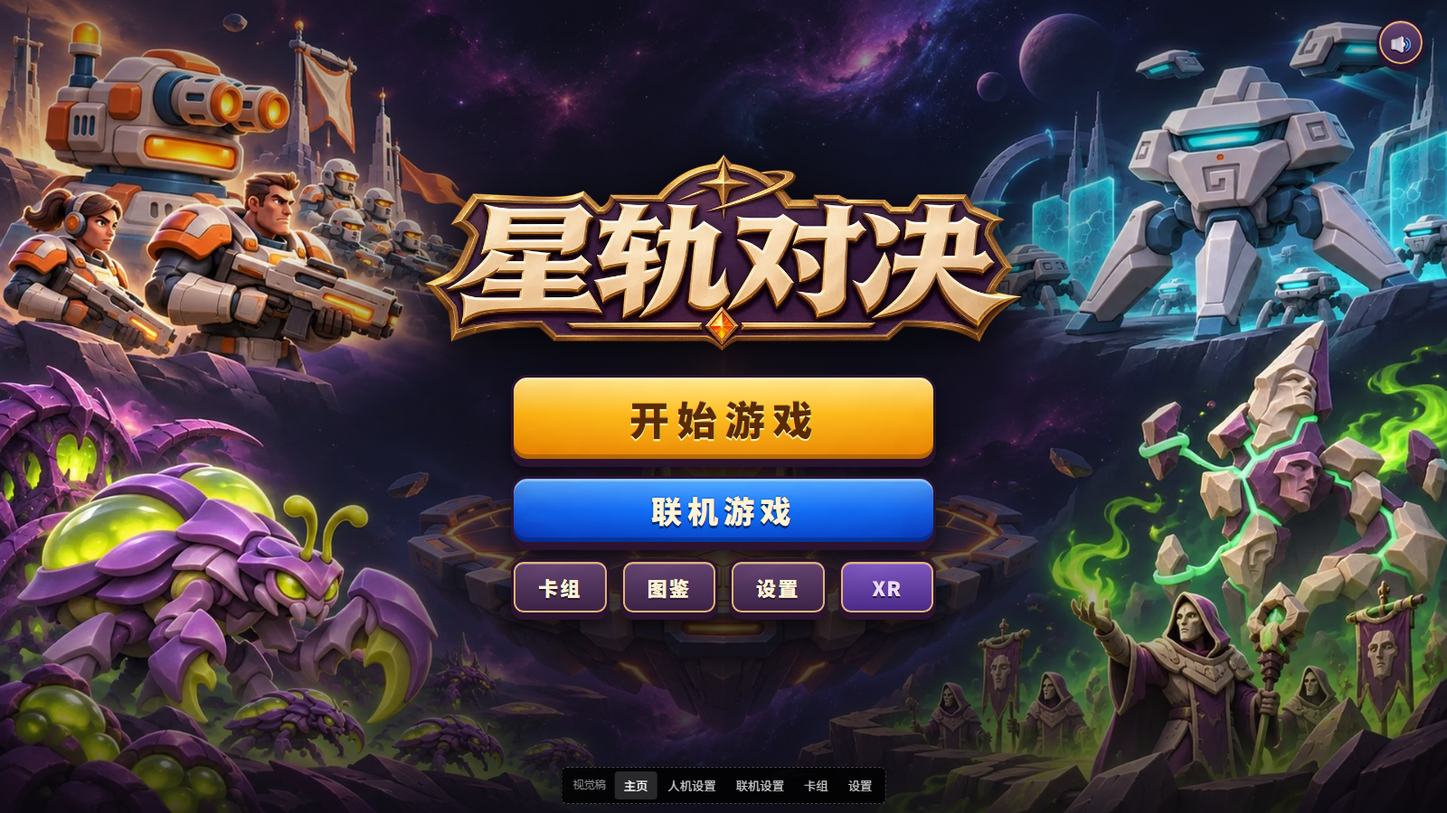
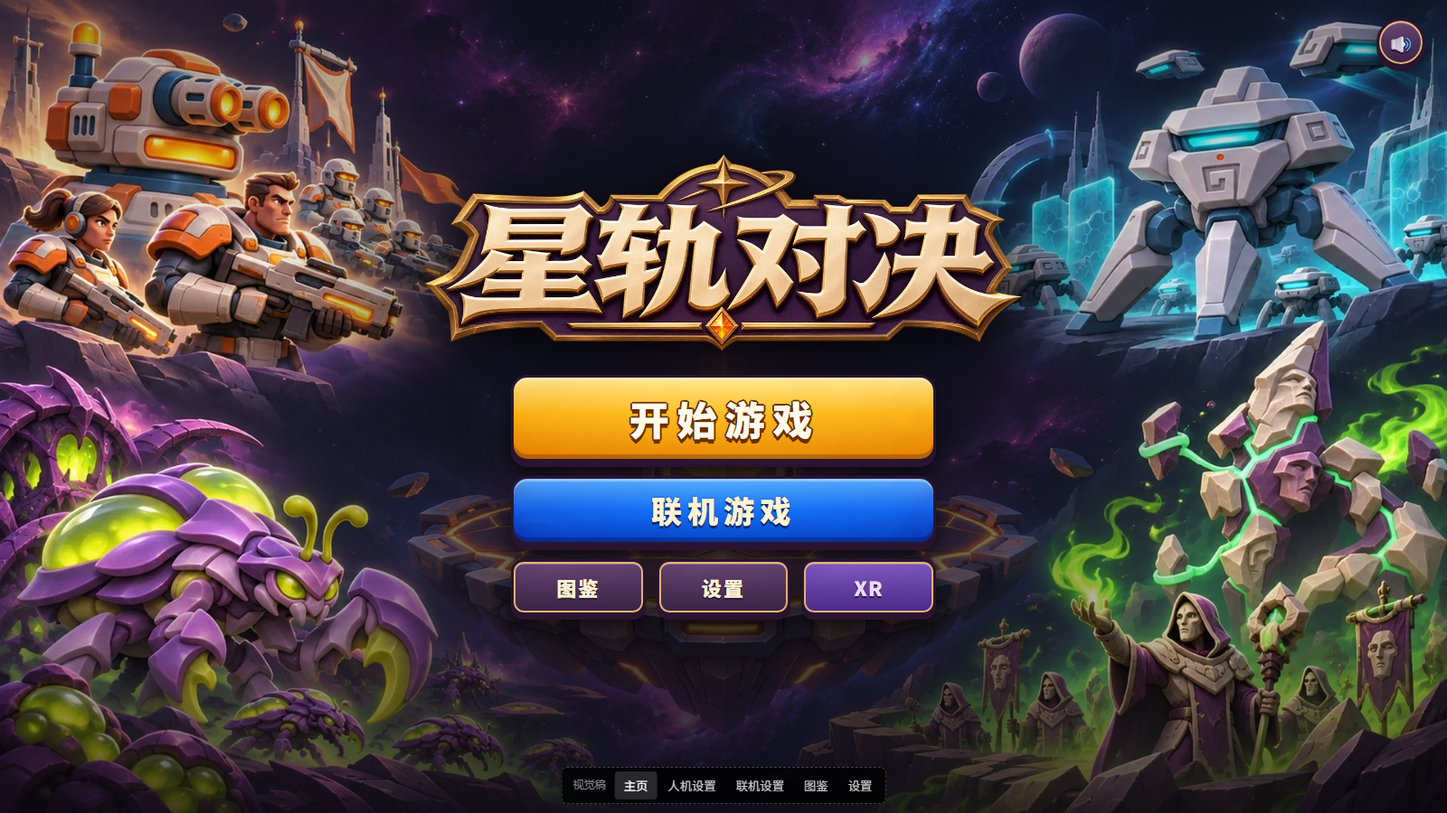
视觉稿 v0.5:卡组并入图鉴(阵营切换+卡牌网格+详情+出战卡组8格);金底文字改奶白粗描边提高对比;主页小按钮改为 图鉴/设置/XR

Changed region(s): [[0.375, 0.6844, 0.625, 0.7778], [0.4375, 0.4667, 0.5625, 0.56]]

diff --git a/mockup/index.html b/mockup/index.html
@@ -18,7 +18,9 @@
   --f-display: 'Noto Sans SC', 'Microsoft YaHei', sans-serif;   /* 全站展示字 = 粗黑体,与字标同一类厚重字形 */
   --f-body: 'Microsoft YaHei', 'PingFang SC', system-ui, sans-serif;
   --f-game: 'Noto Sans SC', 'Microsoft YaHei', sans-serif;   /* 主页按钮:粗黑体,呼应字标的厚重卡通字形 */
-  --plum-line: #2b1430;   /* 按钮外描边 / 立体底边,取自字标底板 */
+  --plum-line: #2b1430;
+  --gold-ink: #fffbea;     /* 金底文字:奶白 */
+  --gold-stroke: #6b2e00;  /* 金底文字描边 / 下沿:深棕 */   /* 按钮外描边 / 立体底边,取自字标底板 */
   --t-display: 72px; --t-h1: 44px; --t-h2: 28px; --t-h3: 20px; --t-body: 16px; --t-small: 14px; --t-caption: 12px; --t-over: 13px;
   --ease: cubic-bezier(.2,.7,.2,1);
   /* 金色角饰:L 形金线 + 菱形,用作框的四角 */
@@ -92,15 +94,15 @@ body {
 .g-btn:active { transform: translateY(4px); box-shadow: inset 0 3px 0 #ffffff40, inset 0 -3px 0 #00000038, 0 2px 0 var(--plum-line), 0 6px 12px #000a; }
 .g-btn:focus-visible { outline: 3px solid var(--focus); outline-offset: 4px; }
 /* 主:金色珐琅,深棕刻字 */
-.g-gold { height: 96px; font-size: 44px; letter-spacing: .2em; padding-left: .2em; color: #5a2a06;
+.g-gold { height: 96px; font-size: 44px; letter-spacing: .2em; padding-left: .2em; color: var(--gold-ink);
   background: linear-gradient(180deg, #fff1a8cc, #ffc21a99 45%, #e07a0099), url(../assets/ui/materials/gold-enamel.webp) center / cover;
-  text-shadow: 0 2px 0 #fff0b3, 0 -1px 0 #a04e0080; }
+  text-shadow: 2px 0 0 var(--gold-stroke), -2px 0 0 var(--gold-stroke), 0 2px 0 var(--gold-stroke), 0 -2px 0 var(--gold-stroke), 1.5px 1.5px 0 var(--gold-stroke), -1.5px 1.5px 0 var(--gold-stroke), 1.5px -1.5px 0 var(--gold-stroke), -1.5px -1.5px 0 var(--gold-stroke), 0 5px 0 var(--gold-stroke); }
 /* 次:蓝色珐琅,白字深蓝描边 */
 .g-blue { height: 76px; font-size: 34px; letter-spacing: .18em; padding-left: .18em;
   background: linear-gradient(180deg, #8fd0ff99, #2f86ff66 50%, #0b3fb899), url(../assets/ui/materials/blue-enamel.webp) center / cover;
   text-shadow: 0 3px 0 #0b2a6b, 0 0 2px #0b2a6b; }
 /* 小:紫石板 + 金边(同字标底板) */
-.minor-row { display: grid; grid-template-columns: repeat(4, 1fr); gap: 12px; }
+.minor-row { display: grid; grid-template-columns: repeat(3, 1fr); gap: 12px; }
 .g-plum { height: 62px; font-size: 22px; letter-spacing: .1em; border-radius: 14px;
   background: linear-gradient(180deg, #6b4a7ad9, #3a2346f2), url(../assets/ui/materials/plum-slate.webp) center / cover;
   box-shadow: inset 0 0 0 2px #e5b573, inset 0 3px 0 #ffffff40, 0 5px 0 var(--plum-line), 0 12px 18px #0009;
@@ -180,30 +182,6 @@ body {
 .board li b { color: var(--ink-1); font-weight: 600; }
 
 /* 卡组 */
-.deck { display: grid; grid-template-columns: minmax(0, 1fr) 340px; gap: 24px; }
-.pool { display: grid; grid-template-columns: repeat(auto-fill, minmax(150px, 1fr)); gap: 12px; padding: 18px; }
-.card { position: relative; padding: 0 0 12px; border: 1px solid #ffffff1f; background: linear-gradient(180deg, #2a2233, #17121d); border-radius: 3px; cursor: pointer; text-align: left; color: var(--ink-1); font: inherit; transition: border-color .12s, transform .12s var(--ease); }
-.card:hover { border-color: #e9c27a99; transform: translateY(-2px); }
-.card.in { border-color: var(--gold); box-shadow: 0 0 0 1px #e9c27a80; }
-.card img { display: block; width: 100%; aspect-ratio: 1; object-fit: contain; background: radial-gradient(#3b3045, #17121d 70%); }
-.cost { position: absolute; top: 8px; left: 8px; width: 32px; height: 32px; display: grid; place-items: center; font: 900 var(--t-body)/1 var(--f-display); color: #fff; background: radial-gradient(circle at 35% 30%, #a78bff, #4b2c9a); border: 1px solid #d9ccff; border-radius: 50%; box-shadow: 0 2px 6px #000a; }
-.card .cname { padding: 8px 12px 0; font: 900 var(--t-body)/1.25 var(--f-display); letter-spacing: .04em; }
-.card .meta { padding: 2px 12px 0; color: var(--ink-3); font-size: var(--t-caption); letter-spacing: .04em; }
-.card .desc { padding: 6px 12px 0; color: var(--ink-2); font-size: var(--t-small); line-height: 1.45; }
-.card .tick { position: absolute; top: 8px; right: 8px; width: 26px; height: 26px; display: none; place-items: center; background: var(--gold); color: #2a1a0c; border-radius: 50%; font-weight: 900; }
-.card.in .tick { display: grid; }
-.card.spell img { mix-blend-mode: screen; }   /* 法术插图是黑底发光图,滤色去黑 */
-.roster { padding: 18px; align-self: start; position: sticky; top: 16px; }
-.roster ol { list-style: none; margin: 0; padding: 0; display: grid; gap: 6px; }
-.roster li { display: grid; grid-template-columns: 32px 36px 1fr; align-items: center; gap: 10px; padding: 6px 8px; background: #0d0a1299; border: 1px solid #ffffff14; border-radius: 2px; font-size: var(--t-small); }
-.roster li img { width: 36px; height: 36px; object-fit: contain; }
-.roster li .mini { width: 26px; height: 26px; font-size: var(--t-small); position: static; }
-.roster li.empty { color: var(--ink-3); grid-template-columns: 1fr; text-align: center; border-style: dashed; }
-.curve { display: grid; grid-template-columns: repeat(6, 1fr); align-items: end; gap: 6px; height: 70px; margin: 16px 0 6px; }
-.curve div { background: linear-gradient(180deg, var(--gold), #8a6332); border-radius: 2px 2px 0 0; min-height: 3px; }
-.curve-x { display: grid; grid-template-columns: repeat(6, 1fr); text-align: center; color: var(--ink-3); font-size: var(--t-caption); }
-.stat { display: flex; justify-content: space-between; margin-top: 12px; color: var(--ink-2); font-size: var(--t-small); }
-.stat b { font: 900 var(--t-h3)/1 var(--f-display); color: var(--ink-1); }
 
 /* 设置 */
 .settings { max-width: 760px; margin: 0 auto; padding: 8px 28px 20px; }
@@ -228,10 +206,8 @@ body {
   .actionbar { padding: 12px 16px 56px; }
   .actionbar .btn-primary { flex: 1; min-width: 0; }
   .actionbar .hint { display: none; }
-  .roster { position: static; }
   .tools { top: 12px; right: 12px; }
   .mock-nav { display: none; }   /* 手机上用页面里的按钮跳转 */
-  .pool { grid-template-columns: repeat(2, minmax(0, 1fr)); gap: 10px; padding: 12px; }
 }
 
 /* ═════ v0.4 二级页主题:与主页同一套——紫石板底板 + 金边 + 深紫粗描边 + 立体底边,粗黑体 ═════ */
@@ -255,7 +231,7 @@ body {
 .choice.sel .name { color: #ffe3a3; }
 .diff { padding: 0; }
 .diff .name { justify-content: center; padding: 18px 0; font-size: var(--t-h3); background: linear-gradient(180deg, #4a3458, #2a1a36); }
-.choice.diff.sel .name { color: #5a2a06; background: linear-gradient(180deg, #fff1a8, #ffc21a 55%, #e07a00); text-shadow: 0 1px 0 #fff0b3; }
+.choice.diff.sel .name { color: var(--gold-ink); background: linear-gradient(180deg, #fff1a8, #ffc21a 55%, #e07a00); text-shadow: 1.5px 0 0 var(--gold-stroke), -1.5px 0 0 var(--gold-stroke), 0 1.5px 0 var(--gold-stroke), 0 -1.5px 0 var(--gold-stroke), 0 3px 0 var(--gold-stroke); }
 .passive { border-left: 0; border-radius: 12px; background: #1a0f24b3; box-shadow: inset 0 0 0 2px color-mix(in srgb, var(--fc, #e5b573) 70%, transparent); }
 .passive b { font-size: var(--t-h3); color: #ffe3a3; text-shadow: 0 2px 0 var(--plum-line); }
 .passive p { color: #f2e6d2; font-size: var(--t-body); }
@@ -266,35 +242,77 @@ body {
 .seg { border: 3px solid var(--plum-line); border-radius: 12px; box-shadow: 0 4px 0 var(--plum-line); }
 .seg button { font-size: var(--t-body); padding: 12px 20px; background: linear-gradient(180deg, #4a3458, #2a1a36); color: #f2e6d2; text-shadow: 0 2px 0 var(--plum-line); }
 .seg button + button { border-left: 2px solid var(--plum-line); }
-.seg button.sel { background: linear-gradient(180deg, #fff1a8, #ffc21a 55%, #e07a00); color: #5a2a06; text-shadow: 0 1px 0 #fff0b3; }
+.seg button.sel { background: linear-gradient(180deg, #fff1a8, #ffc21a 55%, #e07a00); color: var(--gold-ink); text-shadow: 1.5px 0 0 var(--gold-stroke), -1.5px 0 0 var(--gold-stroke), 0 1.5px 0 var(--gold-stroke), 0 -1.5px 0 var(--gold-stroke), 0 3px 0 var(--gold-stroke); }
 .input { border: 3px solid var(--plum-line); border-radius: 12px; background: #140a1c; box-shadow: inset 0 0 0 2px #e5b57366; font-size: var(--t-body); }
 .field span { font: 900 var(--t-body)/1 var(--f-display); color: #ffe3a3; letter-spacing: .08em; text-shadow: 0 2px 0 var(--plum-line); }
 .board li { font-size: var(--t-body); }
 .actionbar { background: linear-gradient(transparent, #1a0f24f2 45%); gap: 14px; }
-.card { border: 3px solid var(--plum-line); border-radius: 14px; background: linear-gradient(180deg, #4a3458, #22142c); box-shadow: 0 4px 0 var(--plum-line); }
-.card.in { border-color: #ffd27a; box-shadow: 0 0 0 2px #ffd27a, 0 4px 0 var(--plum-line); }
-.card img { border-radius: 11px 11px 0 0; background: radial-gradient(#5a4068, #22142c 72%); }
-.card .cname { font-size: var(--t-h3); text-shadow: 0 2px 0 var(--plum-line); }
-.card .meta { font-size: var(--t-small); color: #c9b8d6; }
-.card .desc { font-size: var(--t-small); color: #f2e6d2; }
-.cost { border: 2px solid var(--plum-line); box-shadow: 0 2px 0 var(--plum-line); }
-.card .tick { border: 2px solid var(--plum-line); color: #5a2a06; }
-.roster li { border-radius: 10px; background: #1a0f24b3; border: 2px solid #ffffff14; font: 900 var(--t-body)/1.2 var(--f-display); }
-.curve div { background: linear-gradient(180deg, #fff1a8, #ffc21a 55%, #e07a00); border: 2px solid var(--plum-line); border-bottom: 0; border-radius: 6px 6px 0 0; }
-.stat { font-size: var(--t-body); color: #f2e6d2; }
-.stat b { font-size: var(--t-h2); color: #ffe3a3; text-shadow: 0 2px 0 var(--plum-line); }
 .row { border-top: 2px solid #ffffff14; padding: 16px 0; }
 .row b { font: 900 var(--t-h3)/1.2 var(--f-display); color: #fff1cf; letter-spacing: .06em; text-shadow: 0 2px 0 var(--plum-line); }
 .settings { padding: 12px 30px 24px; }
-.roster li { padding: 4px 8px; }
-.roster li img { width: 30px; height: 30px; }
-.curve { height: 56px; margin-top: 12px; }
 @media (max-width: 720px) {
   .g-go { min-width: 0; flex: 1; height: 64px; font-size: 28px; }
   .g-back { height: 44px; font-size: 16px; padding: 0 14px 0 10px; }
   .topbar h1 { letter-spacing: .08em; }
   .settings { padding: 8px 18px 18px; }
   .row { grid-template-columns: 1fr; gap: 10px; }
+}
+
+/* ═════ 图鉴(含组卡):左卡牌网格,右详情 + 出战卡组 ═════ */
+.tabs { display: flex; justify-content: center; gap: 12px; margin: -4px 0 18px; }
+.tab { display: inline-flex; align-items: center; gap: 8px; }
+.tab img { width: 26px; height: 26px; }
+.tab.sel { color: var(--gold-ink); background: linear-gradient(180deg, #fff1a8, #ffc21a 55%, #e07a00);
+  box-shadow: inset 0 0 0 2px #fff3c0, 0 5px 0 var(--plum-line), 0 10px 16px #0009;
+  text-shadow: 1.5px 0 0 var(--gold-stroke), -1.5px 0 0 var(--gold-stroke), 0 1.5px 0 var(--gold-stroke), 0 -1.5px 0 var(--gold-stroke), 0 3px 0 var(--gold-stroke); }
+.codex { display: grid; grid-template-columns: minmax(0, 1fr) 400px; gap: 22px; align-items: start; }
+.pool-wrap { padding: 16px; }
+.pool { display: grid; grid-template-columns: repeat(auto-fill, minmax(132px, 1fr)); gap: 12px; }
+.card { position: relative; padding: 0 0 10px; cursor: pointer; text-align: center; color: var(--ink-1); font: inherit;
+  border: 3px solid var(--plum-line); border-radius: 14px; background: linear-gradient(180deg, #4a3458, #22142c); box-shadow: 0 4px 0 var(--plum-line);
+  transition: transform .12s var(--ease), border-color .12s; }
+.card:hover { transform: translateY(-3px); border-color: #e5b573; }
+.card img { display: block; width: 100%; aspect-ratio: 1; object-fit: contain; border-radius: 11px 11px 0 0; background: radial-gradient(#5a4068, #22142c 72%); }
+.card.spell img, .detail .art.spell { mix-blend-mode: screen; }   /* 法术插图是黑底发光图,滤色去黑 */
+.card .cname { padding: 8px 6px 0; font: 900 var(--t-body)/1.2 var(--f-display); letter-spacing: .04em; text-shadow: 0 2px 0 var(--plum-line); }
+.card.in { border-color: #ffd27a; box-shadow: 0 0 0 2px #ffd27a, 0 4px 0 var(--plum-line); }
+.card.view { transform: translateY(-3px); box-shadow: 0 0 0 3px #fff, 0 4px 0 var(--plum-line), 0 0 22px #ffffff55; }
+.card.in.view { box-shadow: 0 0 0 2px #ffd27a, 0 0 0 5px #fff, 0 4px 0 var(--plum-line), 0 0 22px #ffffff55; }
+.card .tick { position: absolute; top: 8px; right: 8px; width: 26px; height: 26px; display: none; place-items: center; border-radius: 50%;
+  background: linear-gradient(180deg, #fff1a8, #ffc21a 55%, #e07a00); border: 2px solid var(--plum-line); color: var(--gold-ink); font-weight: 900;
+  text-shadow: 0 1px 0 var(--gold-stroke), 0 -1px 0 var(--gold-stroke), 1px 0 0 var(--gold-stroke), -1px 0 0 var(--gold-stroke); }
+.card.in .tick { display: grid; }
+.cost { position: absolute; top: 8px; left: 8px; width: 32px; height: 32px; display: grid; place-items: center; font: 900 var(--t-body)/1 var(--f-display); color: #fff;
+  background: radial-gradient(circle at 35% 30%, #b89bff, #5a2fc0); border: 2px solid var(--plum-line); border-radius: 50%; box-shadow: 0 2px 0 var(--plum-line); text-shadow: 0 1px 0 var(--plum-line); }
+.side { display: grid; gap: 18px; position: sticky; top: 12px; }
+.detail { padding: 16px; display: grid; grid-template-columns: 150px 1fr; gap: 6px 16px; align-items: start; }
+.detail .art-wrap { position: relative; grid-row: span 3; }
+.detail .art { display: block; width: 150px; height: 150px; object-fit: contain; border-radius: 12px; background: radial-gradient(#6a4c7a, #22142c 72%); border: 3px solid var(--plum-line); }
+.detail h3 { margin: 2px 0 0; font: 900 var(--t-h2)/1.15 var(--f-display); letter-spacing: .06em; color: #fff1cf; text-shadow: 0 3px 0 var(--plum-line); }
+.detail .type { color: #ffe3a3; font: 900 var(--t-small)/1 var(--f-display); letter-spacing: .1em; text-shadow: 0 2px 0 var(--plum-line); }
+.chips { display: flex; flex-wrap: wrap; gap: 6px; }
+.chip { padding: 5px 10px; border-radius: 10px; background: #1a0f24b3; border: 2px solid #ffffff1a; font: 900 var(--t-small)/1 var(--f-display); color: #f2e6d2; }
+.chip b { color: #fff; font-size: var(--t-body); margin-left: 4px; }
+.detail .desc { grid-column: 1 / -1; margin: 8px 0 2px; color: #f2e6d2; font-size: var(--t-body); line-height: 1.5; }
+.detail .acts { grid-column: 1 / -1; display: flex; gap: 10px; }
+.detail .acts .g-btn { flex: 1; }
+.roster { padding: 16px; }
+.slots { display: grid; grid-template-columns: repeat(4, minmax(0, 1fr)); gap: 10px; padding: 6px 0 0 6px; }
+.dslot { position: relative; display: block; width: 100%; min-width: 0; aspect-ratio: 1; border-radius: 12px; border: 3px solid var(--plum-line); background: radial-gradient(#5a4068, #22142c 72%); box-shadow: 0 3px 0 var(--plum-line); cursor: pointer; padding: 0; }
+.dslot img { width: 100%; height: 100%; object-fit: contain; border-radius: 9px; }
+.dslot.spell img { mix-blend-mode: screen; }
+.dslot .cost { top: -8px; left: -8px; width: 26px; height: 26px; font-size: var(--t-small); }
+.dslot.empty { border-style: dashed; border-color: #e5b57366; background: #1a0f2480; box-shadow: none; cursor: default; }
+.deckstat { display: flex; justify-content: space-between; margin-top: 14px; font: 900 var(--t-body)/1 var(--f-display); color: #f2e6d2; }
+.deckstat b { color: #ffe3a3; font-size: var(--t-h3); text-shadow: 0 2px 0 var(--plum-line); margin-left: 6px; }
+@media (max-width: 720px) {
+  .tabs { display: grid; grid-template-columns: 1fr 1fr; gap: 8px; }
+  .codex { grid-template-columns: 1fr; }
+  .side { position: static; order: -1; }
+  .pool { grid-template-columns: repeat(3, minmax(0, 1fr)); gap: 8px; }
+  .card .cname { font-size: 13px; }
+  .detail { grid-template-columns: 110px 1fr; }
+  .detail .art { width: 110px; height: 110px; }
 }
 </style>
 </head>
@@ -308,8 +326,7 @@ body {
       <button class="g-btn g-gold" data-go="s-setup" data-mode="ai">开始游戏</button>
       <button class="g-btn g-blue" data-go="s-setup" data-mode="online">联机游戏</button>
       <div class="minor-row">
-        <button class="g-btn g-plum" data-go="s-deck">卡组</button>
-        <button class="g-btn g-plum">图鉴</button>
+        <button class="g-btn g-plum" data-go="s-codex">图鉴</button>
         <button class="g-btn g-plum" data-go="s-settings">设置</button>
         <button class="g-btn g-plum g-xr" aria-label="进入空间大厅(XR)">XR</button>
       </div>
@@ -333,7 +350,7 @@ body {
           <h2 class="over">我方</h2>
           <div class="factions" id="factions"></div>
           <div class="passive" id="passive"></div>
-          <div class="deckline"><span id="deckline"></span><button class="g-btn g-plum g-sm" data-go="s-deck">编辑卡组</button></div>
+          <div class="deckline"><span id="deckline"></span><button class="g-btn g-plum g-sm" data-go="s-codex" data-codex-fac="1">编辑卡组</button></div>
         </section>
         <section class="slot frame">
           
@@ -369,35 +386,30 @@ body {
   </div>
 </section>
 
-<!-- ═════════ 卡组 ═════════ -->
-<section class="screen sub" id="s-deck">
+<!-- ═════════ 图鉴(含组卡)═════════ -->
+<section class="screen sub" id="s-codex">
   <div class="page">
     <header class="topbar">
-      <div><button class="g-btn g-plum g-back" data-go="s-setup">‹ 返回</button></div>
-      <h1>卡组</h1>
+      <div><button class="g-btn g-plum g-back" data-back>‹ 返回</button></div>
+      <h1>图鉴</h1>
       <div class="right"><button class="g-btn g-plum round-btn" title="音效">🔊</button></div>
     </header>
-    <div class="deck">
-      <section class="frame" style="padding:0">
-        
-        <div style="padding:18px 18px 0"><h2 class="over">钢铁联盟 · 可用卡牌</h2></div>
-        <div class="pool" id="pool"></div>
-      </section>
-      <aside class="roster frame">
-        
-        <h2 class="over">出战卡组</h2>
-        <ol id="roster"></ol>
-        <div class="curve" id="curve"></div>
-        <div class="curve-x"><span>1</span><span>2</span><span>3</span><span>4</span><span>5</span><span>6+</span></div>
-        <div class="stat"><span>卡牌数</span><b id="count"></b></div>
-        <div class="stat"><span>平均费用</span><b id="avg"></b></div>
+    <div class="tabs" id="tabs"></div>
+    <div class="codex">
+      <section class="frame pool-wrap"><div class="pool" id="pool"></div></section>
+      <aside class="side">
+        <section class="frame detail" id="detail"></section>
+        <section class="frame roster">
+          <h2 class="over">出战卡组</h2>
+          <div class="slots" id="slots"></div>
+          <div class="deckstat"><span>卡牌<b id="count"></b></span><span>均费<b id="avg"></b></span></div>
+        </section>
       </aside>
     </div>
   </div>
   <div class="actionbar">
     <button class="g-btn g-plum g-sm" id="preset">推荐卡组</button>
-    <button class="g-btn g-plum g-sm" data-go="s-setup">取消</button>
-    <button class="g-btn g-gold g-go" data-go="s-setup">保存</button>
+    <button class="g-btn g-gold g-go" data-back>保存</button>
   </div>
 </section>
 
@@ -427,7 +439,7 @@ body {
 </section>
 
 <nav class="mock-nav" id="mock-nav"><span>视觉稿</span>
-  <button data-go="s-home" class="sel">主页</button><button data-go="s-setup" data-mode="ai">人机设置</button><button data-go="s-setup" data-mode="online">联机设置</button><button data-go="s-deck">卡组</button><button data-go="s-settings">设置</button>
+  <button data-go="s-home" class="sel">主页</button><button data-go="s-setup" data-mode="ai">人机设置</button><button data-go="s-setup" data-mode="online">联机设置</button><button data-go="s-codex">图鉴</button><button data-go="s-settings">设置</button>
 </nav>
 
 <script>
@@ -444,27 +456,31 @@ const MAPS = [
   { id: 'glacier', name: '冰封裂谷', desc: '两侧转线口错开；两条冰路斜穿三路，地面单位踏冰减速。' },
   { id: 'volcano', name: '熔岩锻炉', desc: '熔岩河横贯三路，地面单位涉水会被灼烧；仅星核可安全通过。' },
 ];
-const CARDS = [
-  ['steel_infantry', '联盟步兵', 2, 'unit', '可对空的主力步兵'], ['steel_tank', '重装坦克', 5, 'unit', '重甲前排，推进缓慢'],
-  ['steel_artillery', '火炮哨站', 4, 'unit', '远程炮击，溅射伤害'], ['steel_shield', '护盾兵', 3, 'unit', '自带200护盾，前排抗伤'],
-  ['steel_banner', '军旗手', 3, 'unit', '光环：周围友军攻击+40%、移速+20%'], ['steel_siege', '攻城战车', 5, 'unit', '只打建筑与塔，专职拆塔'],
-  ['steel_turret', '防御炮台', 4, 'building', '防守炮台，可对空'], ['steel_buff_atk', '全员强化', 2, 'spell', '场上友军攻击永久+10'],
-  ['steel_repair', '装甲维修', 2, 'spell', '范围友军回复150生命'], ['steel_strike', '轨道炮击', 4, 'spell', '1.2秒后范围伤害200（建筑40%）'],
-  ['steel_barrier', '紧急护盾', 3, 'spell', '范围友军获得150护盾'],
-].map(([id, name, cost, type, desc]) => ({ id, name, cost, type, desc, img: `../assets/${type === 'spell' ? 'spells' : 'units'}/${id}.webp` }));
-const PRESET = ['steel_infantry', 'steel_tank', 'steel_artillery', 'steel_shield', 'steel_banner', 'steel_siege', 'steel_repair', 'steel_strike'];
+// 全部阵营卡牌(取自 js/cards.js):[id, 名称, 费用, 类型, 攻击, 生命, 射程, 描述]
+const ALL = {"steel": [["steel_infantry", "联盟步兵", 2, "unit", 21, 115, 0.7, "可对空的主力步兵"], ["steel_tank", "重装坦克", 5, "unit", 34, 390, 0.7, "重甲前排，推进缓慢"], ["steel_artillery", "火炮哨站", 4, "unit", 28, 160, 2.8, "远程炮击，溅射伤害"], ["steel_shield", "护盾兵", 3, "unit", 15, 170, 0.7, "自带200护盾，前排抗伤"], ["steel_banner", "军旗手", 3, "unit", 11, 180, 0.7, "光环：周围友军攻击+40%、移速+20%"], ["steel_siege", "攻城战车", 5, "unit", 62, 463, 0.8, "只打建筑与塔，专职拆塔"], ["steel_turret", "防御炮台", 4, "building", 28, 424, 2.6, "防守炮台，可对空"], ["steel_buff_atk", "全员强化", 2, "spell", null, null, null, "场上友军攻击永久+10"], ["steel_repair", "装甲维修", 2, "spell", null, null, null, "范围友军回复150生命"], ["steel_strike", "轨道炮击", 4, "spell", null, null, null, "1.2秒后范围伤害200（建筑40%）"], ["steel_barrier", "紧急护盾", 3, "spell", null, null, null, "范围友军获得150护盾"]], "mecha": [["mecha_drone", "侦察无人机", 2, "unit", 15, 74, 1.5, "高速飞行，骚扰牵制"], ["mecha_sentry", "哨戒炮", 3, "unit", 25, 130, 2.5, "远程火力平台，移动缓慢"], ["mecha_walker", "战术机甲", 5, "unit", 36, 340, 0.8, "攻守均衡的主战机甲"], ["mecha_swarmdrone", "蜂群无人机", 3, "unit", 9, 33, 1.3, "部署3架飞行无人机"], ["mecha_arc", "电弧兵", 4, "unit", 28, 210, 1.8, "攻击连锁3个额外敌人"], ["mecha_sniper", "狙击单元", 4, "unit", 60, 113, 3, "超远射程，单发高伤"], ["mecha_factory", "无人机工厂", 5, "building", 0, 382, 0, "每9秒产出1架侦察无人机"], ["mecha_emp", "EMP脉冲", 2, "spell", null, null, null, "范围伤害45，眩晕2.5秒"], ["mecha_hack", "黑客入侵", 3, "spell", null, null, null, "范围内最强敌人倒戈3秒"], ["mecha_chain", "连锁闪电", 3, "spell", null, null, null, "闪电连锁4次，每次110伤害"], ["mecha_airdrop", "无人机空投", 4, "spell", null, null, null, "我方半场空投2架侦察无人机"]], "swarm": [["swarm_worker", "工兵虫", 1, "unit", 16, 80, 0.6, "存活15秒进化为战斗虫"], ["swarm_warrior", "战斗虫", 3, "unit", 31, 245, 0.6, "虫群主力近战"], ["swarm_devourer", "吞噬者", 5, "unit", 40, 311, 0.7, "击杀时回复目标30%最大生命"], ["swarm_brood", "幼虫群", 2, "unit", 9, 50, 0.5, "孵出4只幼虫"], ["swarm_mother", "孵化母虫", 4, "unit", 18, 264, 0.7, "亡语：孵出4只幼虫"], ["swarm_spitter", "酸液喷吐者", 3, "unit", 21, 121, 2.2, "远程酸液，溅射伤害"], ["swarm_flyer", "飞翼虫", 3, "unit", 22, 111, 0.7, "飞行，可与空中单位缠斗"], ["swarm_hive", "孵化巢", 4, "building", 0, 295, 0, "每6秒孵出1只工兵虫"], ["swarm_convert", "同化孢子", 5, "spell", null, null, null, "永久同化1个≤4费敌军（优先残血）"], ["swarm_evolve", "基因拟态", 3, "spell", null, null, null, "复制范围内最贵敌军（≤5费），生命70%"], ["swarm_parasite", "寄生", 3, "spell", null, null, null, "范围敌军中毒8秒，期间阵亡化为2只幼虫"]], "chaos": [["chaos_warrior", "扭曲战士", 2, "unit", 30, 123, 0.7, "低费近战，攻击凶猛"], ["chaos_wraith", "灵魂体", 3, "unit", 41, 101, 0.7, "虚体：30%闪避攻击"], ["chaos_construct", "恶魔构造体", 6, "unit", 52, 400, 0.8, "重型巨像，免疫眩晕与入侵"], ["chaos_zealot", "自爆邪徒", 2, "unit", 0, 96, 0.4, "冲向塔与建筑自爆，范围伤害135"], ["chaos_berserker", "狂战士", 3, "unit", 31, 190, 0.7, "半血以下狂暴：攻速×2"], ["chaos_soulreaver", "吸魂者", 4, "unit", 33, 225, 1.4, "远程攻击，吸血32%"], ["chaos_bats", "虚空蝠", 3, "unit", 17, 68, 0.7, "2只飞行蝙蝠，吸血20%"], ["chaos_obelisk", "腐化方尖碑", 4, "building", 0, 328, 0, "周围2.2格每秒26腐蚀（含空中）"], ["chaos_rain", "腐化之雨", 3, "spell", null, null, null, "范围每秒22腐蚀，持续4秒"], ["chaos_drain", "灵魂抽取", 2, "spell", null, null, null, "最强敌军受125伤害，核心回复125"], ["chaos_sacrifice", "献祭", 2, "spell", null, null, null, "引爆范围友军，造成其剩余生命120%伤害"], ["chaos_curse", "诅咒", 3, "spell", null, null, null, "范围敌军受到伤害+60%，持续7秒"]]};
+const PRESETS = {"steel": ["steel_infantry", "steel_tank", "steel_artillery", "steel_shield", "steel_banner", "steel_siege", "steel_repair", "steel_strike"], "mecha": ["mecha_drone", "mecha_sentry", "mecha_walker", "mecha_swarmdrone", "mecha_arc", "mecha_sniper", "mecha_emp", "mecha_chain"], "swarm": ["swarm_worker", "swarm_warrior", "swarm_devourer", "swarm_brood", "swarm_mother", "swarm_spitter", "swarm_flyer", "swarm_parasite"], "chaos": ["chaos_warrior", "chaos_wraith", "chaos_construct", "chaos_zealot", "chaos_berserker", "chaos_soulreaver", "chaos_bats", "chaos_rain"]};
+const CARDS = Object.values(ALL).flat().map(([id, name, cost, type, atk, hp, range, desc]) =>
+  ({ id, name, cost, type, atk, hp, range, desc, img: `../assets/${type === 'spell' ? 'spells' : 'units'}/${id}.webp` }));
+const card = id => CARDS.find(c => c.id === id);
 const TYPE = { unit: '单位', building: '建筑', spell: '法术' };
 const $ = s => document.querySelector(s);
-let fac = FACTIONS[0], map = MAPS[0], opp = 'ai', deck = [...PRESET];
+let fac = FACTIONS[0], map = MAPS[0], opp = 'ai';
+const decks = Object.fromEntries(FACTIONS.map(f => [f.id, [...PRESETS[f.id]]]));   // 每个阵营一套出战卡组
+let cfac = 'steel', view = null;   // 图鉴当前阵营 / 正在查看的卡
+const history = [];
 
-function go(id) {
+function go(id, push = true) {
+  const cur = document.querySelector('.screen.on')?.id;
+  if (push && cur && cur !== id) history.push(cur);
   document.querySelectorAll('.screen').forEach(s => s.classList.toggle('on', s.id === id));
   document.querySelectorAll('#mock-nav button').forEach(b => b.classList.toggle('sel', b.dataset.go === id && (!b.dataset.mode || b.dataset.mode === opp)));
   scrollTo(0, 0);
 }
 document.addEventListener('click', e => {
+  if (e.target.closest('[data-back]')) { go(history.pop() || 's-home', false); return; }   // 返回 / 保存:回到进来的那一页
   const b = e.target.closest('[data-go]'); if (!b) return;
   if (b.dataset.mode) { opp = b.dataset.mode; renderSetup(); }   // 主页两个入口进同一个设置页,模式不同
+  if (b.dataset.codexFac) { cfac = fac.id; view = null; renderCodex(); }   // 从对局设置进来:切到当前阵营
   go(b.dataset.go);
 });
 
@@ -473,7 +489,8 @@ function renderSetup() {
     <img class="art" src="../assets/ui/factions/${f.id}.webp" alt=""><span class="name"><img src="../assets/emblems/emblem_${f.id}.webp" alt="">${f.name}</span></button>`).join('');
   $('#passive').style.setProperty('--fc', fac.color);
   $('#passive').innerHTML = `<b>阵营特性 · ${fac.passive[0]}</b><p>${fac.passive[1]}</p>`;
-  $('#deckline').textContent = `推荐卡组 · 均费 3.5`;
+  const d = decks[fac.id].map(card);
+  $('#deckline').textContent = `出战卡组 · 均费 ${(d.reduce((a, c) => a + c.cost, 0) / d.length).toFixed(1)}`;
   $('#maps').innerHTML = MAPS.map(m => `<button class="choice${m === map ? ' sel' : ''}" data-m="${m.id}">
     <img class="art" src="${m.img || `../assets/scenes/${m.id}/concept.webp`}" alt=""><span class="name">${m.name}</span></button>`).join('');
   $('#map-img').src = map.img || `../assets/scenes/${map.id}/concept.webp`;
@@ -488,29 +505,43 @@ $('#factions').addEventListener('click', e => { const b = e.target.closest('[dat
 $('#maps').addEventListener('click', e => { const b = e.target.closest('[data-m]'); if (b) { map = MAPS.find(m => m.id === b.dataset.m); renderSetup(); } });
 $('#diffs').addEventListener('click', e => { const b = e.target.closest('.diff'); if (b) { document.querySelectorAll('.diff').forEach(d => d.classList.toggle('sel', d === b)); } });
 
-function renderDeck() {
-  $('#pool').innerHTML = CARDS.map(c => `<button class="card${deck.includes(c.id) ? ' in' : ''}${c.type === 'spell' ? ' spell' : ''}" data-c="${c.id}">
-    <img src="${c.img}" alt=""><span class="cost">${c.cost}</span><span class="tick">✓</span>
-    <div class="cname">${c.name}</div><div class="meta">${TYPE[c.type]}</div><div class="desc">${c.desc}</div></button>`).join('');
-  const inDeck = deck.map(id => CARDS.find(c => c.id === id)).sort((a, b) => a.cost - b.cost);
-  $('#roster').innerHTML = inDeck.map(c => `<li><span class="cost mini">${c.cost}</span><img src="${c.img}" alt=""><span>${c.name}</span></li>`).join('')
-    + Array.from({ length: 8 - inDeck.length }, () => '<li class="empty">空位</li>').join('');
-  const bins = [0, 0, 0, 0, 0, 0]; inDeck.forEach(c => bins[Math.min(5, c.cost - 1)]++);
-  $('#curve').innerHTML = bins.map(n => `<div style="height:${n / 4 * 100}%"></div>`).join('');
-  $('#count').textContent = `${deck.length} / 8`;
-  $('#avg').textContent = deck.length ? (inDeck.reduce((a, c) => a + c.cost, 0) / deck.length).toFixed(1) : '–';
+const TYPE_ZH = { unit: '单位', building: '建筑', spell: '法术' };
+function renderCodex() {
+  const deck = decks[cfac], list = ALL[cfac].map(r => card(r[0]));
+  view ??= list[0];
+  $('#tabs').innerHTML = FACTIONS.map(f => `<button class="g-btn g-plum g-sm tab${f.id === cfac ? ' sel' : ''}" data-tab="${f.id}"><img src="../assets/emblems/emblem_${f.id}.webp" alt="">${f.name}</button>`).join('');
+  $('#pool').innerHTML = list.map(c => `<button class="card${deck.includes(c.id) ? ' in' : ''}${c === view ? ' view' : ''}${c.type === 'spell' ? ' spell' : ''}" data-c="${c.id}">
+    <img src="${c.img}" alt="" onerror="this.style.visibility='hidden'"><span class="cost">${c.cost}</span><span class="tick">✓</span><div class="cname">${c.name}</div></button>`).join('');
+  const inDeck = deck.includes(view.id), full = deck.length >= 8;
+  const stats = view.type === 'spell' ? '' : `<div class="chips"><span class="chip">生命<b>${view.hp}</b></span><span class="chip">攻击<b>${view.atk}</b></span>${view.range ? `<span class="chip">射程<b>${view.range}</b></span>` : ''}</div>`;
+  $('#detail').innerHTML = `<div class="art-wrap"><img class="art${view.type === 'spell' ? ' spell' : ''}" src="${view.img}" alt=""><span class="cost">${view.cost}</span></div>
+    <span class="type">${TYPE_ZH[view.type]}</span><h3>${view.name}</h3>${stats}
+    <p class="desc">${view.desc}</p>
+    <div class="acts">${inDeck ? '<button class="g-btn g-plum g-sm" data-toggle>移出卡组</button>'
+      : `<button class="g-btn g-gold g-sm" data-toggle ${full ? 'disabled' : ''}>${full ? '卡组已满' : '加入卡组'}</button>`}
+      ${view.type === 'spell' ? '' : '<button class="g-btn g-blue g-sm">3D 模型</button>'}</div>`;
+  const d = deck.map(card).sort((a, b) => a.cost - b.cost);
+  $('#slots').innerHTML = d.map(c => `<button class="dslot${c.type === 'spell' ? ' spell' : ''}" data-c="${c.id}" title="${c.name}"><img src="${c.img}" alt=""><span class="cost">${c.cost}</span></button>`).join('')
+    + Array.from({ length: 8 - d.length }, () => '<span class="dslot empty"></span>').join('');
+  $('#count').textContent = `${deck.length}/8`;
+  $('#avg').textContent = deck.length ? (d.reduce((a, c) => a + c.cost, 0) / deck.length).toFixed(1) : '–';
 }
-$('#pool').addEventListener('click', e => {
-  const b = e.target.closest('[data-c]'); if (!b) return;
-  const id = b.dataset.c;
-  if (deck.includes(id)) deck = deck.filter(x => x !== id); else if (deck.length < 8) deck.push(id);
-  renderDeck();
+$('#s-codex').addEventListener('click', e => {
+  const tab = e.target.closest('[data-tab]');
+  if (tab) { cfac = tab.dataset.tab; view = null; renderCodex(); return; }
+  const c = e.target.closest('[data-c]');
+  if (c) { view = card(c.dataset.c); renderCodex(); return; }   // 点卡 / 卡组格:查看
+  if (e.target.closest('[data-toggle]')) {
+    const deck = decks[cfac];
+    if (deck.includes(view.id)) decks[cfac] = deck.filter(x => x !== view.id); else if (deck.length < 8) deck.push(view.id);
+    renderCodex(); renderSetup();
+  }
+  if (e.target.closest('#preset')) { decks[cfac] = [...PRESETS[cfac]]; renderCodex(); renderSetup(); }
 });
-$('#preset').addEventListener('click', () => { deck = [...PRESET]; renderDeck(); });
 document.querySelectorAll('#s-settings .seg').forEach(seg => seg.addEventListener('click', e => {
   const b = e.target.closest('button'); if (b) seg.querySelectorAll('button').forEach(x => x.classList.toggle('sel', x === b));
 }));
-renderSetup(); renderDeck();
+renderSetup(); renderCodex();
 const q = new URLSearchParams(location.search); if (q.get('m')) { opp = q.get('m'); renderSetup(); } if (q.get('s')) go(q.get('s'));
 </script>
 </body>

diff --git a/docs/ui-redesign-plan.md b/docs/ui-redesign-plan.md
@@ -83,13 +83,13 @@
 主页（居中，含品牌字标）
    ├─ 开始游戏(主)  ──▶ 人机对战设置：我方(阵营·卡组) │ 对手·电脑(难度) │ 战场 ──开战──▶ 对局
    ├─ 联机游戏      ──▶ 联机对战设置：我方(阵营·卡组) │ 对手·好友(昵称·建房/房号) │ 战场 + 排行榜 ──创建房间──▶ 等待 ──▶ 对局
-   ├─ 卡组 · 图鉴 · 设置（一行三个次按钮）
-   └─ 进入空间大厅（XR，文字按钮）
+   ├─ 图鉴（含组卡）· 设置 · XR（一行三个次按钮）
 ```
 
 - **主页居中对称**（批注）：主视觉是左右对称构图（两侧立绘，中间晶石祭坛），菜单放在中轴上，字标在上、菜单面板在下。原方案的左侧竖排与背景不匹配，已改。
 - **人机 / 联机两个入口都放主页**（批注）：「开始游戏」= 人机对战，「联机游戏」紧跟其下；两个入口进同一个设置页，模式由入口决定，页内不再有「电脑 / 联机好友」切换。
 - **「对局设置」并入开始游戏**（批注）：主页不再单独放「对局设置」；点开始游戏先进设置页（记住上次选择），再点「开战」。代价：从主页到对局多一次点击（1 → 2）。如需保留一键开局，可在设置页之外另加「快速开战」，待定。
+- **卡组并入图鉴**（批注）：图鉴 = 按阵营浏览全部卡牌 + 右侧详情（数值、3D 模型）+ 出战卡组 8 格（加入 / 移出、推荐卡组、保存）；对局设置里的「编辑卡组」直接打开图鉴并切到当前阵营，保存后回到来源页。
 - 标题页仍建议取消（批注点 A）。
 
 ## 3. 各屏布局
